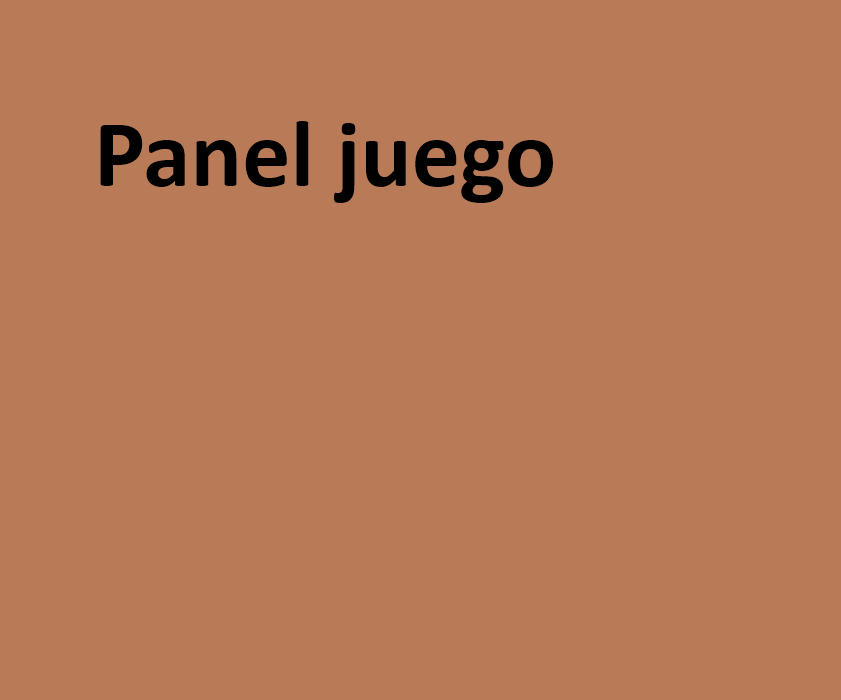
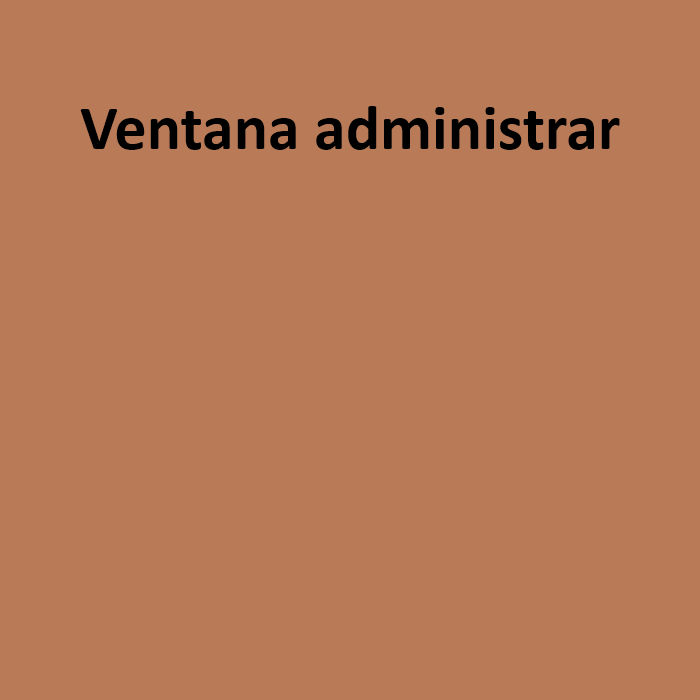
Nuevos nombres para ventanas y primeros botones interactivos.

Changed region(s): [[0.12, 0.15, 0.9, 0.3]]

diff --git a/Simulador/src/main/java/TiendaDeMascotas/Visual/PanelJuego.java b/Simulador/src/main/java/TiendaDeMascotas/Visual/PanelJuego.java
@@ -1,0 +1,116 @@
+package TiendaDeMascotas.Visual;
+
+import javax.swing.*;
+
+import TiendaDeMascotas.logica.*;
+import TiendaDeMascotas.fabricas.*;
+
+import java.util.List;
+
+/**
+ * Panel de administración con fondo semitransparente (alpha = 0.8),
+ * para que se vea lo que hay debajo en el panel de inicio.
+ */
+public class PanelJuego implements VistaPanel {
+    private final ImagePanel panelJuego;
+    //private final JButton btnVolverInicio;
+    //private final JButton btnAbrirInventario;
+    //private final JButton btnAbrirTienda;
+
+    private final JButton btnAdoptarPerro;
+    private final JButton btnAdoptarGato;
+    //private final JButton btnAdoptarAve;
+    //private final JButton btnAdoptarPez;
+
+    private final JButton[] btnCamas = new JButton[8];
+    private final JButton[] btnJaula = new JButton[3];
+    private final JButton[] btnPecera = new JButton[3];
+    Mascota temp = null;
+
+    public PanelJuego(Navegador navegador, ImageIcon iconoFondo) {
+        panelJuego = new ImagePanel(iconoFondo, 1f);
+        panelJuego.setBounds(0, 0, 1500, 800);
+
+        ListaMascotas camas = new ListaMascotas();
+        ListaMascotas jaula = new ListaMascotas();
+        ListaMascotas pecera = new ListaMascotas();
+        GatoFactory gatoFactory = new GatoFactory();
+        PerroFactory perroFactory = new PerroFactory();
+        //AveFactory aveFactory = new AveFactory();
+        //PezFactory pezFactory = new PezFactory();
+        Comida carne = new ComidaBarata("Carne", 50);
+        ComidaPromedio cereal = new ComidaPromedio("Cereal", 100);
+        ComidaPremium nutritivo = new ComidaPremium("Cereal nutritivo", 500);
+        JuguetePez pescado = new JuguetePez("caña con pescado", 50);
+        JugueteLaser laser = new JugueteLaser("Laser", 50);
+        JuguetePelota pelota = new JuguetePelota("Pelota", 50);
+        Medicina pastilla = new Medicina("Pastilla", 100);
+
+        for (int i = 0; i < 8; i++) {
+            btnCamas[i] = new JButton("Cama " + (i + 1));
+            if(i < 4) {
+                btnCamas[i].setBounds(100 * i + 500, 100 * i + 300, 100, 100);
+            }else{
+                btnCamas[i].setBounds(100 * i + 500, 100 * i - 100, 100, 100);
+            }
+            panelJuego.add(btnCamas[i]);
+            int finalI = i;
+            btnCamas[i].addActionListener(e -> {
+                JOptionPane.showMessageDialog(
+                        null,
+                        "Has seleccionado Cama " + (camas.mascotaEnCama(finalI).getNombre()),
+                        "Información",
+                        JOptionPane.INFORMATION_MESSAGE
+                );
+            });
+        }
+
+
+        for (int i = 0; i < 3; i++) {
+            btnJaula[i] = new JButton("Cama " + (i + 1));
+        }
+
+        for (int i = 0; i < 3; i++) {
+            btnPecera[i] = new JButton("Cama " + (i + 1));
+        }
+
+        btnAdoptarPerro = new JButton("Adoptar Perro");
+        btnAdoptarPerro.setBounds(700, 100, 100, 50);
+        btnAdoptarPerro.addActionListener(e ->
+                camas.agregarMascota(perroFactory.crearMascota())
+        );
+
+        btnAdoptarGato = new JButton("Adoptar Gato");
+        btnAdoptarGato.setBounds(800, 100, 100, 50);
+        btnAdoptarGato.addActionListener(e ->
+                camas.agregarMascota(gatoFactory.crearMascota())
+        );
+
+
+
+        /*btnVolverInicio = new JButton("X");
+        btnVolverInicio.setBounds(1200, 10, 50, 50);
+        btnVolverInicio.addActionListener(e ->
+                navegador.navegarA(VistaActual.INICIO)
+        );*/
+        //panelJuego.add(btnVolverInicio);
+
+        panelJuego.add(btnAdoptarPerro);
+        panelJuego.add(btnAdoptarGato);
+    }
+
+    @Override
+    public JPanel obtenerPanel() {
+        return panelJuego;
+    }
+
+    @Override
+    public void alEntrar() {
+        //para el futuro cuando agreguemos otras cosas, habilitar o deshabilitar al entrar al panel
+    }
+
+    @Override
+    public void alSalir() {
+        //para el futuro cuando agreguemos otras cosas, habilitar o deshabilitar al salir del panel
+    }
+}

diff --git a/Simulador/src/main/java/TiendaDeMascotas/Visual/Ventana.java b/Simulador/src/main/java/TiendaDeMascotas/Visual/Ventana.java
@@ -14,8 +14,8 @@ public class Ventana extends JFrame implements Navegador {
 
     // Íconos de fondo
     private final ImageIcon iconoFondoInicio;
-    private final ImageIcon iconoFondoAdministrar;
-    private final ImageIcon iconoFondoTienda;
+    private final ImageIcon iconoFondoJuego;
+    private final ImageIcon iconoFondoOpciones;
 
     // Estado actual
     private VistaActual vistaActual;
@@ -25,47 +25,47 @@ public class Ventana extends JFrame implements Navegador {
 
         // Carga de fondos
 
-        iconoFondoInicio = new ImageIcon(getClass().getResource("/Imagenes/fondo/fondoVentanaJuego.png"));
-        iconoFondoAdministrar = new ImageIcon(getClass().getResource("/Imagenes/fondo/fondoVentanaAdministrar.png"));
-        iconoFondoTienda = new ImageIcon(getClass().getResource("/Imagenes/fondo/fondoVentanaTienda.png"));
+        iconoFondoInicio = new ImageIcon(getClass().getResource("/Imagenes/fondo/fondoVentanaInicio.png"));
+        iconoFondoJuego = new ImageIcon(getClass().getResource("/Imagenes/fondo/fondoVentanaJuego.png"));
+        iconoFondoOpciones = new ImageIcon(getClass().getResource("/Imagenes/fondo/fondoVentanaOpciones.png"));
 
         setDefaultCloseOperation(EXIT_ON_CLOSE);
-        setSize(700, 700);
+        setSize(1500, 800);
         setLocationRelativeTo(null);
         setResizable(false);
 
         panelCapas = new JLayeredPane();
-        panelCapas.setPreferredSize(new Dimension(700, 700));
+        panelCapas.setPreferredSize(new Dimension(1500, 800));
         panelCapas.setLayout(null);
 
         // Instanciar vistas
         mapaVistas.put(VistaActual.INICIO,
                 new PanelInicio(this, iconoFondoInicio)
         );
-        mapaVistas.put(VistaActual.ADMINISTRAR,
-                new PanelAdministrar(this, iconoFondoAdministrar)
+        mapaVistas.put(VistaActual.JUEGO,
+                new PanelJuego(this, iconoFondoJuego)
         );
-        mapaVistas.put(VistaActual.TIENDA,
-                new PanelTienda(this, iconoFondoTienda)
+        mapaVistas.put(VistaActual.OPCIONES,
+                new PanelOpciones(this, iconoFondoOpciones)
         );
 
-        // Agregar en capas: INICIO abajo (0), ADMINISTRAR arriba (1)
+        // Agregar en capas: INICIO abajo (0), JUEGO arriba (1)
         panelCapas.add(
                 mapaVistas.get(VistaActual.INICIO).obtenerPanel(),
                 Integer.valueOf(0)
         );
         panelCapas.add(
-                mapaVistas.get(VistaActual.ADMINISTRAR).obtenerPanel(),
+                mapaVistas.get(VistaActual.JUEGO).obtenerPanel(),
                 Integer.valueOf(1)
         );
         panelCapas.add(
-                mapaVistas.get(VistaActual.TIENDA).obtenerPanel(),
+                mapaVistas.get(VistaActual.OPCIONES).obtenerPanel(),
                 Integer.valueOf(1)
         );
 
         // Ocultar paneles al incio
-        mapaVistas.get(VistaActual.ADMINISTRAR).obtenerPanel().setVisible(false);
-        mapaVistas.get(VistaActual.TIENDA).obtenerPanel().setVisible(false);
+        mapaVistas.get(VistaActual.JUEGO).obtenerPanel().setVisible(false);
+        mapaVistas.get(VistaActual.OPCIONES).obtenerPanel().setVisible(false);
 
         setContentPane(panelCapas);
         setVisible(true);

diff --git a/Simulador/src/main/java/TiendaDeMascotas/Visual/PanelInicio.java b/Simulador/src/main/java/TiendaDeMascotas/Visual/PanelInicio.java
@@ -7,31 +7,28 @@ import javax.swing.*;
  */
 public class PanelInicio implements VistaPanel {
     private final ImagePanel panelInicio;
-    private final JButton btnIrAdministrar;
-    private final JButton btnIrTienda;
+    private final JButton btnIrJuego;
+    private final JButton btnIrOpciones;
 
     public PanelInicio(Navegador navegador, ImageIcon iconoFondo) {
         panelInicio = new ImagePanel(iconoFondo, 1f);
-        panelInicio.setBounds(0, 0, 700, 700);
+        panelInicio.setBounds(0, 0, 1500, 800);
 
         //botones para ir a otro panel
-        btnIrAdministrar = new JButton("Ir a Administrar");
-        btnIrAdministrar.setBounds(12, 160, 150, 50);
-        btnIrAdministrar.addActionListener(e ->
-                navegador.navegarA(VistaActual.ADMINISTRAR)
+        btnIrJuego = new JButton("Comenzar juego");
+        btnIrJuego.setBounds(600, 300, 300, 100);
+        btnIrJuego.addActionListener(e ->
+                navegador.navegarA(VistaActual.JUEGO)
         );
 
-        btnIrTienda = new JButton("Ir a Tienda");
-        btnIrTienda.setBounds(12, 240, 150, 50);
-        btnIrTienda.addActionListener(e ->
-                navegador.navegarA(VistaActual.TIENDA)
+        btnIrOpciones = new JButton("Ir a Opciones");
+        btnIrOpciones.setBounds(600, 500, 300, 100);
+        btnIrOpciones.addActionListener(e ->
+                navegador.navegarA(VistaActual.OPCIONES)
         );
 
-
-        //
-
-        panelInicio.add(btnIrAdministrar);
-        panelInicio.add(btnIrTienda);
+        panelInicio.add(btnIrJuego);
+        panelInicio.add(btnIrOpciones);
     }
 
     @Override

diff --git a/Simulador/src/main/java/TiendaDeMascotas/Visual/PanelOpciones.java b/Simulador/src/main/java/TiendaDeMascotas/Visual/PanelOpciones.java
@@ -1,0 +1,40 @@
+package TiendaDeMascotas.Visual;
+
+import javax.swing.*;
+
+/**
+ * Panel de tienda con fondo semitransparente (alpha = 0.8),
+ * para que se vea lo que hay debajo en el panel de inicio.
+ */
+public class PanelOpciones implements VistaPanel {
+    private final ImagePanel panelOpciones;
+    private final JButton btnVolverInicio;
+
+    public PanelOpciones(Navegador navegador, ImageIcon iconoFondo) {
+        // alpha < 1 para ver el fondo de panelInicio detrás
+        panelOpciones = new ImagePanel(iconoFondo, 1f);
+        panelOpciones.setBounds(0, 0, 1500, 800);
+
+        btnVolverInicio = new JButton("X");
+        btnVolverInicio.setBounds(1200, 10, 50, 50);
+        btnVolverInicio.addActionListener(e ->
+                navegador.navegarA(VistaActual.INICIO)
+        );
+
+        panelOpciones.add(btnVolverInicio);
+    }
+
+    @Override
+    public JPanel obtenerPanel() {
+        return panelOpciones;
+    }
+    @Override
+    public void alEntrar() {
+        //para el futuro cuando agreguemos otras cosas, habilitar o deshabilitar al entrar al panel
+    }
+
+    @Override
+    public void alSalir() {
+        //para el futuro cuando agreguemos otras cosas, habilitar o deshabilitar al salir del panel
+    }
+}

diff --git a/Simulador/src/main/java/TiendaDeMascotas/logica/ListaMascotas.java b/Simulador/src/main/java/TiendaDeMascotas/logica/ListaMascotas.java
@@ -5,19 +5,28 @@ import java.util.List;
 
 public class ListaMascotas {
     List<Mascota> listaMascotas;
-    public ListaMascotas(){
+
+    public ListaMascotas() {
         this.listaMascotas = new ArrayList<Mascota>();
+        for (int i = 0; i < 10; i++) {
+            listaMascotas.add(null);
+        }
     }
 
-    public void agregarMascota(Mascota mascota){
-        this.listaMascotas.add(mascota);
+    public void agregarMascota(Mascota mascota) {
+        for (int i = 0; i < listaMascotas.size(); i++) {
+            if (listaMascotas.get(i) == null) {
+                listaMascotas.set(i, mascota);
+                break;
+            }
+        }
     }
 
-    public Mascota mascotaEnCama(int cama){
+    public Mascota mascotaEnCama(int cama) {
         return this.listaMascotas.get(cama);
     }
 
-    public Mascota sacarMascotaEnCama(int cama){
+    public Mascota sacarMascotaEnCama(int cama) {
         Mascota temp = this.listaMascotas.get(cama);
         this.listaMascotas.set(cama, null);
         return temp;

diff --git a/Simulador/src/main/java/TiendaDeMascotas/Main.java b/Simulador/src/main/java/TiendaDeMascotas/Main.java
@@ -8,25 +8,6 @@ import javax.swing.*;
 
 public class Main {
     public static void main(String[] args) {
-    //SwingUtilities.invokeLater(() -> new Ventana());
-    ListaMascotas lista = new ListaMascotas();
-    PerroFactory perroFactory = new PerroFactory();
-    GatoFactory gatoFactory = new GatoFactory();
-
-
-    if(lista.size() <= 5 + Mejoras.getCantidadCamas()){
-        lista.agregarMascota(gatoFactory.crearMascota());
-        lista.agregarMascota(perroFactory.crearMascota());
-        lista.agregarMascota(perroFactory.crearMascota());
-    } //Comprobar despues de agregar cada uno
-
-    Comida carne = new ComidaBarata("Carne", 40);
-    Juguete pelota = new JuguetePez("caña con pescado", 50);
-    Medicina pastilla= new Medicina("Pastilla", 100);
-    lista.mascotaEnCama(0).medicar(pastilla);
-    lista.mascotaEnCama(0).alimentar(carne);
-    lista.mascotaEnCama(0).jugar(pelota);
-
-
+    SwingUtilities.invokeLater(() -> new Ventana());
     }
 }

diff --git a/Simulador/src/main/java/TiendaDeMascotas/Visual/VistaActual.java b/Simulador/src/main/java/TiendaDeMascotas/Visual/VistaActual.java
@@ -6,6 +6,10 @@ package TiendaDeMascotas.Visual;
 public enum VistaActual {
     INICIO,
     INVENTARIO,
-    TIENDA,
-    ADMINISTRAR
+    OPCIONES,
+    JUEGO,
+    MASCOTA,
+    COMIDA,
+    JUGAR,
+    MEDICINA
 }
